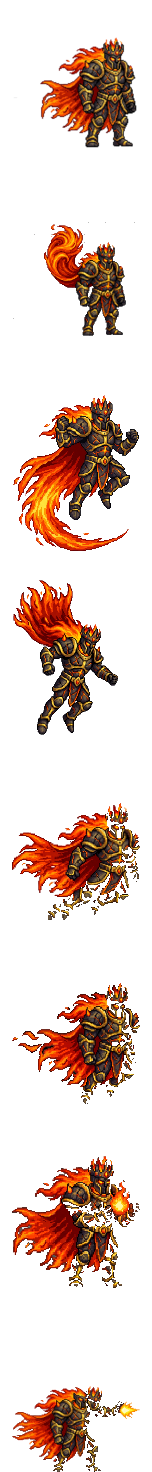
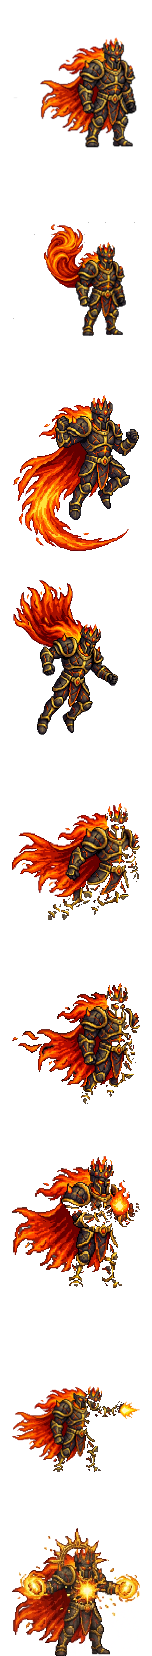
Add Fallen God final transformation and meteor rain phase

diff --git a/Content/NPCs/FallenGod.cs b/Content/NPCs/FallenGod.cs
@@ -27,7 +27,7 @@ namespace WikiStarter.Content.NPCs
 
         public override void SetStaticDefaults()
         {
-            Main.npcFrameCount[Type] = 8;
+            Main.npcFrameCount[Type] = 9;
         }
 
         public override void SetDefaults()
@@ -76,6 +76,8 @@ namespace WikiStarter.Content.NPCs
                 frame = 2; // rise
             else if (NPC.ai[3] == 3f)
                 frame = 3; // descent
+            else if (NPC.ai[3] == 6f)
+                frame = 8; // final transformation
             else if (NPC.ai[3] == 0f && NPC.localAI[0] > 12f)
                 frame = 6; // gather a fireball
             else if (NPC.ai[3] == 0f && NPC.localAI[0] > 0f)
@@ -105,35 +107,56 @@ namespace WikiStarter.Content.NPCs
                 return;
             }
 
+            bool finalPhase = NPC.life <= NPC.lifeMax / 5;
+            if (finalPhase && NPC.localAI[2] == 0f)
+            {
+                NPC.localAI[2] = 1f;
+                NPC.ai[0] = 0f;
+                NPC.ai[1] = 0f;
+                NPC.ai[2] = 0f;
+                NPC.ai[3] = 6f;
+                NPC.localAI[0] = 0f;
+                NPC.velocity = Vector2.Zero;
+                NPC.netUpdate = true;
+            }
+
+            if (NPC.ai[3] == 6f)
+            {
+                RunFinalTransformation();
+                return;
+            }
+
             if (NPC.localAI[0] > 0f)
                 NPC.localAI[0]--;
 
             bool enraged = NPC.life < NPC.lifeMax / 2;
-            NPC.damage = enraged ? 55 : 45;
-            NPC.defense = enraged ? 20 : 15;
+            NPC.damage = finalPhase ? 68 : enraged ? 55 : 45;
+            NPC.defense = finalPhase ? 26 : enraged ? 20 : 15;
             NPC.direction = target.Center.X >= NPC.Center.X ? 1 : -1;
             NPC.spriteDirection = NPC.direction;
             NPC.noTileCollide = NPC.ai[3] != 3f;
 
             if (NPC.ai[3] == 0f)
             {
-                // Keep the boss close enough to threaten the player instead of orbiting far away.
-                float horizontalOffset = enraged ? 88f : 118f;
-                float verticalOffset = enraged ? -72f : -98f;
+                // The god now stays within striking distance and accelerates in his final phase.
+                float horizontalOffset = finalPhase ? 58f : enraged ? 88f : 118f;
+                float verticalOffset = finalPhase ? -48f : enraged ? -72f : -98f;
+                float flightSpeed = finalPhase ? 12.5f : enraged ? 9.5f : 7.5f;
+                float tracking = finalPhase ? 0.14f : 0.085f;
                 Vector2 hoverPoint = target.Center + new Vector2(-NPC.direction * horizontalOffset, verticalOffset);
-                Vector2 desiredVelocity = (hoverPoint - NPC.Center).SafeNormalize(Vector2.Zero) * (enraged ? 9.5f : 7.5f);
-                NPC.velocity = Vector2.Lerp(NPC.velocity, desiredVelocity, 0.085f);
+                Vector2 desiredVelocity = (hoverPoint - NPC.Center).SafeNormalize(Vector2.Zero) * flightSpeed;
+                NPC.velocity = Vector2.Lerp(NPC.velocity, desiredVelocity, tracking);
 
                 if (NPC.ai[1] > 0f)
                 {
                     NPC.ai[1]--;
                     if (NPC.ai[1] == 7f && Main.netMode != NetmodeID.MultiplayerClient)
-                        FireFan(target, enraged);
+                        FireFan(target, enraged, finalPhase);
                 }
                 else
                 {
                     NPC.ai[0]++;
-                    int shotInterval = enraged ? 55 : 82;
+                    int shotInterval = finalPhase ? 38 : enraged ? 55 : 82;
                     if (NPC.ai[0] >= shotInterval)
                     {
                         NPC.ai[0] = 0f;
@@ -146,7 +169,8 @@ namespace WikiStarter.Content.NPCs
                 if (enraged)
                 {
                     NPC.ai[2]++;
-                    if (NPC.ai[2] >= 260f && NPC.ai[1] <= 0f)
+                    float jumpInterval = finalPhase ? 170f : 260f;
+                    if (NPC.ai[2] >= jumpInterval && NPC.ai[1] <= 0f)
                     {
                         NPC.ai[2] = 0f;
                         NPC.ai[3] = 1f;
@@ -159,10 +183,58 @@ namespace WikiStarter.Content.NPCs
                 {
                     NPC.ai[2] = 0f;
                 }
+
+                if (finalPhase)
+                {
+                    NPC.localAI[1]++;
+                    if (NPC.localAI[1] >= 190f)
+                    {
+                        NPC.localAI[1] = 0f;
+                        if (Main.netMode != NetmodeID.MultiplayerClient)
+                            FireMeteorRain(target);
+                    }
+                }
+                else
+                {
+                    NPC.localAI[1] = 0f;
+                }
             }
             else
             {
                 RunJumpSlam(target);
+            }
+        }
+
+        private void RunFinalTransformation()
+        {
+            NPC.dontTakeDamage = true;
+            NPC.damage = 0;
+            NPC.noTileCollide = true;
+            NPC.velocity *= 0.82f;
+            NPC.ai[2]++;
+            NPC.alpha = NPC.ai[2] % 12f < 6f ? 72 : 0;
+
+            if (NPC.ai[2] == 1f && Main.netMode != NetmodeID.Server)
+            {
+                SoundEngine.PlaySound(AwakeningSound, NPC.Center);
+                if (Main.LocalPlayer.active)
+                    Main.LocalPlayer.GetModPlayer<GodslayerPlayer>().BeginBossIntro(NPC.whoAmI, 90);
+            }
+
+            if (NPC.ai[2] % 6f == 0f)
+                SpawnEntranceEmbers();
+
+            if (NPC.ai[2] >= 60f)
+            {
+                NPC.ai[2] = 0f;
+                NPC.ai[3] = 0f;
+                NPC.alpha = 0;
+                NPC.dontTakeDamage = false;
+                NPC.netUpdate = true;
+                if (Main.netMode != NetmodeID.MultiplayerClient)
+                    FireSlamBurst();
+                if (Main.netMode != NetmodeID.Server)
+                    SoundEngine.PlaySound(SlamSound, NPC.Center);
             }
         }
 
@@ -276,13 +348,13 @@ namespace WikiStarter.Content.NPCs
             }
         }
 
-        private void FireFan(Player target, bool enraged)
+        private void FireFan(Player target, bool enraged, bool finalPhase)
         {
             Vector2 aim = (target.Center - NPC.Center).SafeNormalize(Vector2.UnitY);
-            int projectileCount = enraged ? 5 : 3;
-            float spread = enraged ? 0.72f : 0.48f;
-            float speed = enraged ? 9f : 8f;
-            int damage = enraged ? 32 : 24;
+            int projectileCount = finalPhase ? 7 : enraged ? 5 : 3;
+            float spread = finalPhase ? 1.05f : enraged ? 0.72f : 0.48f;
+            float speed = finalPhase ? 10f : enraged ? 9f : 8f;
+            int damage = finalPhase ? 42 : enraged ? 32 : 24;
 
             for (int i = 0; i < projectileCount; i++)
             {
@@ -291,6 +363,19 @@ namespace WikiStarter.Content.NPCs
                 Vector2 velocity = aim.RotatedBy(rotation) * speed;
                 Projectile.NewProjectile(NPC.GetSource_FromAI(), NPC.Center, velocity,
                     ModContent.ProjectileType<GodfireBolt>(), damage, 0f);
+            }
+        }
+
+        private void FireMeteorRain(Player target)
+        {
+            const int meteorCount = 7;
+            for (int i = 0; i < meteorCount; i++)
+            {
+                float offset = (i - (meteorCount - 1) / 2f) * 92f;
+                Vector2 spawnPosition = target.Center + new Vector2(offset, -440f);
+                Vector2 velocity = new Vector2(-offset * 0.009f, 10.5f);
+                Projectile.NewProjectile(NPC.GetSource_FromAI(), spawnPosition, velocity,
+                    ModContent.ProjectileType<GodfireBolt>(), 40, 0f);
             }
         }
 

diff --git a/README.md b/README.md
@@ -8,7 +8,8 @@
 - У босса 7000 здоровья. Во второй фазе он чаще выпускает огненные снаряды, подпрыгивает и обрушивается на игрока.
 - После приземления выпускает огненный взрыв во все стороны и две низкие волны пламени по земле.
 - Во вступлении камера плавно переводится к месту призыва, босс проявляется в огне под низкий рёв и ударный акцент.
-- Анимация босса состоит из 8 кадров: подготовка и прыжок, горизонтальный полёт в двух позах и два кадра стрельбы.
+- Ниже 20% здоровья начинается третья фаза: бог преображается, ускоряется, выпускает веер из 7 снарядов и вызывает огненный дождь.
+- Анимация босса состоит из 9 кадров: подготовка и прыжок, горизонтальный полёт, стрельба и отдельная поза преображения.
 - Огненные снаряды также анимированы тремя кадрами; удар о землю сопровождается отдельным басовым звуком.
 - После победы босс гарантированно оставляет **Сердце Падшего Бога**.
 
